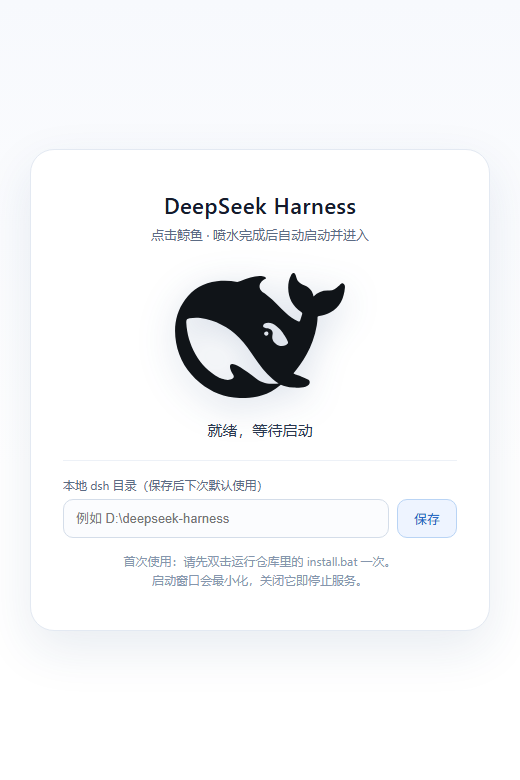
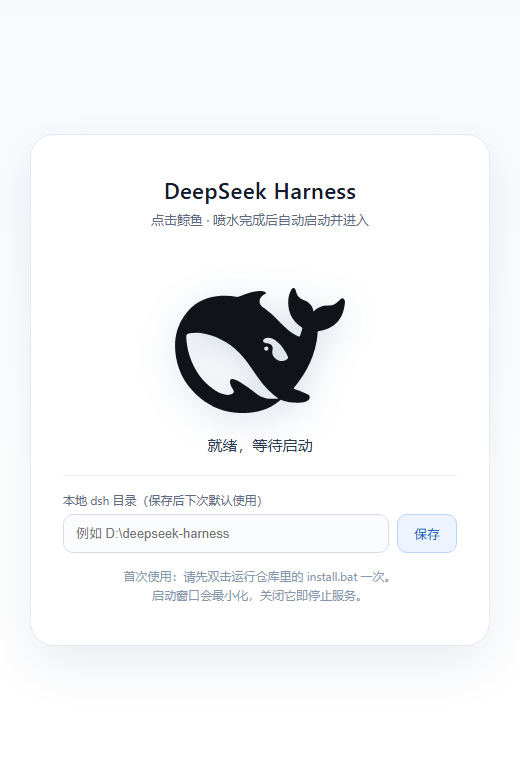
fix: keep spout below heading text, faster startup sequence

diff --git a/launcher.html b/launcher.html
@@ -18,7 +18,7 @@ body {
   box-shadow: 0 18px 50px rgba(30, 64, 120, .10);
 }
 h1 { font-size: 22px; margin: 0 0 6px; font-weight: 600; letter-spacing: .5px; color: #141b2b; }
-.sub { font-size: 13px; color: #5b6b84; margin: 0 0 22px; }
+.sub { font-size: 13px; color: #5b6b84; margin: 0 0 52px; }
 .whale-wrap { position: relative; display: inline-block; margin: 8px 0 18px; }
 .whale-btn {
   background: none; border: none; cursor: pointer; padding: 0; outline: none;
@@ -43,7 +43,7 @@ h1 { font-size: 22px; margin: 0 0 6px; font-weight: 600; letter-spacing: .5px; c
 
 /* water column rising from the blowhole */
 .spout-column {
-  position: absolute; left: 116px; top: -36px; width: 5px; height: 30px;
+  position: absolute; left: 116px; top: -24px; width: 5px; height: 18px;
   background: linear-gradient(to top, rgba(30, 128, 255, .95), rgba(30, 128, 255, 0));
   border-radius: 3px; transform-origin: bottom center; display: none;
 }
@@ -55,7 +55,7 @@ h1 { font-size: 22px; margin: 0 0 6px; font-weight: 600; letter-spacing: .5px; c
 
 /* spray particles arcing out of the column */
 .drop {
-  position: absolute; left: 118px; top: -34px; background: #1e80ff;
+  position: absolute; left: 118px; top: -20px; background: #1e80ff;
   border-radius: 50% 50% 55% 55%; opacity: 0; display: none;
 }
 .spouting .drop { display: block; animation: spout 1.5s cubic-bezier(.2, .6, .4, 1) infinite; animation-delay: var(--d, 0s); }
@@ -68,7 +68,7 @@ h1 { font-size: 22px; margin: 0 0 6px; font-weight: 600; letter-spacing: .5px; c
 
 /* mist puff at the blowhole */
 .mist {
-  position: absolute; left: 116px; top: -30px; width: 12px; height: 12px;
+  position: absolute; left: 116px; top: -18px; width: 12px; height: 12px;
   border-radius: 50%; background: rgba(30, 128, 255, .30); filter: blur(1.5px);
   opacity: 0; display: none;
 }
@@ -107,13 +107,13 @@ h1 { font-size: 22px; margin: 0 0 6px; font-weight: 600; letter-spacing: .5px; c
         <path d="M22.9168 1.43018C22.6713 1.31018 22.5658 1.53918 22.4223 1.65519C22.3733 1.69269 22.3318 1.74169 22.2903 1.78669C21.9317 2.1697 21.5127 2.42121 20.9657 2.39121C20.1657 2.34621 19.4827 2.59771 18.8787 3.20973C18.7502 2.45521 18.3236 2.0047 17.6746 1.71569C17.3351 1.56568 16.9916 1.41518 16.7536 1.08867C16.5876 0.856163 16.5421 0.597155 16.4591 0.341647C16.4061 0.187643 16.3536 0.0301382 16.1761 0.00363739C15.9836 -0.0263635 15.9081 0.135141 15.8326 0.270145C15.5306 0.822162 15.4136 1.43018 15.4251 2.0462C15.4516 3.43174 16.0366 4.53527 17.1991 5.3203C17.3311 5.4103 17.3651 5.5003 17.3236 5.63181C17.2441 5.90231 17.1501 6.16482 17.0671 6.43533C17.0141 6.60784 16.9351 6.64584 16.7501 6.57033C16.1121 6.30383 15.5611 5.90931 15.074 5.4328C14.2475 4.63328 13.5 3.75075 12.568 3.05973C12.349 2.89822 12.13 2.74822 11.9034 2.60522C10.9524 1.68169 12.028 0.923165 12.277 0.833162C12.5375 0.739159 12.3675 0.41615 11.5259 0.42015C10.6844 0.42365 9.91439 0.705658 8.93286 1.08117C8.78935 1.13767 8.63835 1.17867 8.48384 1.21267C7.59332 1.04367 6.66829 1.00617 5.70226 1.11517C3.88321 1.31768 2.43016 2.1777 1.36213 3.64575C0.0790928 5.4103 -0.222916 7.41536 0.146595 9.50642C0.535106 11.7105 1.66014 13.535 3.38869 14.9616C5.18125 16.4406 7.24581 17.1657 9.60138 17.0266C11.0319 16.9441 12.6245 16.7526 14.421 15.2321C14.874 15.4576 15.3496 15.5476 16.1381 15.6151C16.7456 15.6716 17.3306 15.5851 17.7836 15.4911C18.4931 15.3411 18.4441 14.6841 18.1876 14.5636C16.1081 13.595 16.5646 13.9891 16.1496 13.67C17.2061 12.42 18.8202 10.1979 19.3182 7.17235C19.3672 6.83834 19.4297 6.36783 19.4222 6.09732C19.4182 5.93231 19.4562 5.86831 19.6447 5.84931C20.1657 5.78931 20.6712 5.64681 21.1357 5.3913C22.4833 4.65528 23.0268 3.44624 23.1548 1.9972C23.1738 1.77569 23.1508 1.54668 22.9168 1.43018ZM11.1749 14.4736C9.15936 12.889 8.18184 12.3675 7.77832 12.39C7.40081 12.4125 7.46881 12.8445 7.55182 13.126C7.63882 13.404 7.75182 13.5955 7.91033 13.8396C8.01983 14.0011 8.09533 14.2411 7.80083 14.4216C7.15181 14.8231 6.02327 14.2866 5.97027 14.2601C4.65673 13.4865 3.5587 12.4655 2.78467 11.069C2.03715 9.72493 1.60314 8.28289 1.53164 6.74384C1.51264 6.37233 1.62214 6.24082 1.99215 6.17332C2.47916 6.08332 2.98118 6.06432 3.46769 6.13582C5.52476 6.43633 7.27581 7.35586 8.74385 8.8129C9.58188 9.64243 10.2159 10.634 10.8689 11.6025C11.5634 12.631 12.3105 13.611 13.262 14.4146C13.598 14.6961 13.866 14.9101 14.1225 15.0681C13.349 15.1546 12.058 15.1731 11.1749 14.4746L11.1749 14.4736ZM12.141 8.25988C12.141 8.09488 12.273 7.96338 12.439 7.96338C12.4765 7.96338 12.5105 7.97088 12.541 7.98188C12.5825 7.99688 12.6205 8.01938 12.6505 8.05338C12.7035 8.10588 12.7335 8.18088 12.7335 8.25988C12.7335 8.42489 12.6015 8.55639 12.4355 8.55639C12.2695 8.55639 12.141 8.42489 12.141 8.25988ZM15.1415 9.79893C14.949 9.87793 14.7565 9.94544 14.5715 9.95294C14.2845 9.96794 13.9715 9.85143 13.8015 9.70893C13.5375 9.48742 13.3485 9.36342 13.2695 8.97691C13.2355 8.8119 13.2545 8.55639 13.2845 8.40989C13.3525 8.09438 13.277 7.89187 13.0545 7.70787C12.8735 7.55786 12.643 7.51636 12.39 7.51636C12.2955 7.51636 12.209 7.47486 12.1445 7.44136C12.039 7.38886 11.9519 7.25735 12.035 7.09585C12.0615 7.04335 12.19 6.91584 12.22 6.89334C12.5635 6.69784 12.9595 6.76184 13.326 6.90834C13.6655 7.04735 13.9225 7.30236 14.292 7.66287C14.6695 8.09838 14.7375 8.21838 14.9525 8.54539C15.1225 8.8009 15.277 9.06341 15.3831 9.36392C15.4471 9.55142 15.3641 9.70493 15.1415 9.79893Z" fill="currentColor"/>
       </svg>
       <span class="spout-column"></span>
-      <span class="drop" style="--dx:-20px; --dy:-30px; --d:0s; width:4px; height:7px;"></span>
-      <span class="drop" style="--dx:-14px; --dy:-46px; --d:.12s; width:5px; height:9px;"></span>
-      <span class="drop" style="--dx:-7px;  --dy:-58px; --d:.24s; width:5px; height:9px;"></span>
-      <span class="drop" style="--dx:0;    --dy:-64px; --d:.38s; width:6px; height:10px;"></span>
-      <span class="drop" style="--dx:7px;   --dy:-56px; --d:.52s; width:5px; height:9px;"></span>
-      <span class="drop" style="--dx:14px;  --dy:-44px; --d:.66s; width:5px; height:9px;"></span>
-      <span class="drop" style="--dx:20px;  --dy:-28px; --d:.8s; width:4px; height:7px;"></span>
+      <span class="drop" style="--dx:-14px; --dy:-10px; --d:0s; width:4px; height:7px;"></span>
+      <span class="drop" style="--dx:-10px; --dy:-20px; --d:.12s; width:5px; height:9px;"></span>
+      <span class="drop" style="--dx:-5px;  --dy:-28px; --d:.24s; width:5px; height:9px;"></span>
+      <span class="drop" style="--dx:0;    --dy:-30px; --d:.38s; width:6px; height:10px;"></span>
+      <span class="drop" style="--dx:5px;   --dy:-26px; --d:.52s; width:5px; height:9px;"></span>
+      <span class="drop" style="--dx:10px;  --dy:-18px; --d:.66s; width:5px; height:9px;"></span>
+      <span class="drop" style="--dx:14px;  --dy:-10px; --d:.8s; width:4px; height:7px;"></span>
       <span class="mist" style="--d:.1s;"></span>
       <span class="mist" style="--d:.55s;"></span>
       <span class="mist" style="--d:1s;"></span>
@@ -133,7 +133,7 @@ h1 { font-size: 22px; margin: 0 0 6px; font-weight: 600; letter-spacing: .5px; c
 (function () {
   var DIR_KEY = 'dshLaunchDir'
   var WEB_URL = 'http://127.0.0.1:3080/'
-  var SPOUT_MS = 2400
+  var SPOUT_MS = 1600
   var input = document.getElementById('dirInput')
   var status = document.getElementById('status')
   var btn = document.getElementById('whaleBtn')
@@ -191,9 +191,9 @@ h1 { font-size: 22px; margin: 0 0 6px; font-weight: 600; letter-spacing: .5px; c
       setStatus('正在喷水，准备启动 …')
       // 喷水一轮完成后才真正触发启动
       setTimeout(function () {
-        setStatus('正在启动 dsh web（窗口已最小化）…')
+        setStatus('正在启动 dsh web …（约需 10~30 秒）')
         window.location.href = 'dsh-launch://start?dir=' + encodeURIComponent(dir)
-        waitReady(120, 1500).then(function (ok) {
+        waitReady(150, 800).then(function (ok) {
           if (ok) { jumpIn() }
           else {
             stopSpout()
